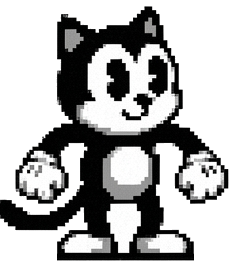
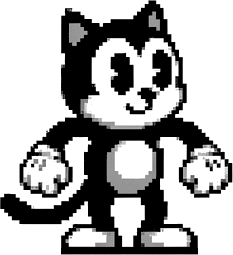
Add files via upload

Changed region(s): [[0.0306, 0.0, 1.0, 1.0], [0.0, 0.7412, 0.0611, 0.8235]]

diff --git a/src/lib/version.ts b/src/lib/version.ts
@@ -4,7 +4,7 @@
  * quickest tell for a partial upload: a missing file usually shows up as a
  * missing migration.
  */
-export const APP_VERSION = "0.599.1";
+export const APP_VERSION = "0.599.2";
 
 export const MIGRATIONS = [
   "0_init",
@@ -145,6 +145,10 @@ export const MIGRATIONS = [
 export type Change = { version: string; summary: string[] };
 
 export const CHANGES: Change[] = [
+  {
+    version: "0.599.2",
+    summary: ["Curtain-Call Curly's juvenile has its raised fist back, and Inkbelle's hatchling its full glove."],
+  },
   {
     version: "0.599.1",
     summary: ["Old-Reel Rufus's hands are no longer cut off."],

diff --git a/DECISIONS.md b/DECISIONS.md
@@ -1,5 +1,20 @@
 # Decisions
 
+## 2026-10 — Black-and-white characters checked against their original sheets (v0.599.2)
+
+With the original sheets for Newsreel Nettie, Reel Rascal Ollie, Eugene,
+Inkbelle, Curtain-Call Curly and Knox, each stage was re-cut (border-connected
+flood; floor line removed except under the feet) and compared with the file
+in use. Identical — so NOT clipped, despite the outline check flagging them:
+Ollie, Eugene, Knox (all stages), Curly's hatchling, and Nettie and Inkbelle's
+juvenile/adult once cut the same way. The outline check over-reports: some
+hands are drawn with white touching the edge of the outline in the original.
+Actually clipped and replaced: Curly's juvenile (83 px short — the whole
+raised fist and part of the arm) and Inkbelle's hatchling (4 px of glove).
+Colourful characters: no reliable automatic test (their outlines mix
+shades); a visual pass found nothing certain, so they wait for their sheets
+rather than being patched by guesswork.
+
 ## 2026-10 — Old-Reel Rufus re-cut from the original sheet (v0.599.1)
 
 All three Rufus sprites had been cut a little narrow: the right edge went

diff --git a/ROADMAP.md b/ROADMAP.md
@@ -1672,6 +1672,6 @@ the fairness engine above as the quiet fuel. No one is ranked against anyone.
 
 ## Known-good baselines (end of this run)
 
-- Web APP_VERSION 0.599.1 (migrations through 127_marine_corps_birthday).
+- Web APP_VERSION 0.599.2 (migrations through 127_marine_corps_birthday).
 - App versionName 0.408.0 / versionCode 469 / CLIENT_BUILD 469.
 - Collector: deployed and running; Xbox totals come from real game sessions.
